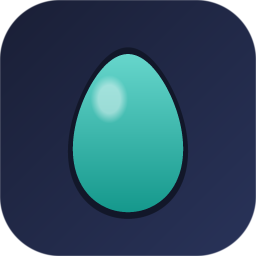
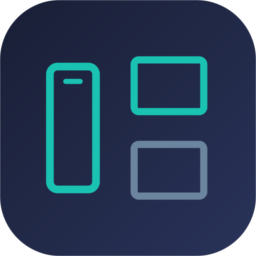
Remplacer l'oeuf par un téléphone et deux fenêtres
L'oeuf est l'emblème du jeu, donc le motif le plus exposé : même
entièrement calculé, il donnait l'impression d'une icône officielle.
Le nouveau dessin ne doit rien à personne. Il montre ce que fait
l'application : un téléphone à gauche, deux cadres de fenêtre qui en
sortent à droite, celui du dessus en couleur d'accent.

L'écouteur du téléphone est indispensable, sans quoi il se lit comme une
troisième fenêtre. Vérifié à seize pixels : les trois formes restent
distinctes.

L'icône des fenêtres de jeu est réécrite à chaque démarrage. La garder
au premier lancement figeait l'ancienne image après un changement de
marque.

Changed region(s): [[0.1562, 0.1875, 0.8125, 0.875]]

diff --git a/build/make-icon.py b/build/make-icon.py
@@ -1,16 +1,16 @@
 #!/usr/bin/env python3
 """Genere assets/app.ico et assets/app.png.
 
-Marque : un oeuf unique, grand et centre, sur fond bleu nuit.
+Marque : un telephone a gauche, et deux cadres de fenetre qui en sortent vers
+la droite. C'est litteralement ce que fait l'application : un telephone qui
+alimente plusieurs fenetres sur le PC.
 
-La composition est produite par ce script, a partir de formes geometriques et
-d'une couleur choisie ici. Elle ne reprend aucune illustration existante :
-ni motif, ni relief, ni ornement, ni teinte copiee. Un oeuf est une forme
-generique ; c'est le dessin qui appartient a son auteur, et celui-ci est
-entierement calcule ci-dessous.
+Aucune reference au jeu. Un oeuf serait l'embleme de DOFUS, donc le motif le
+plus expose : le dessin ne doit rien evoquer d'officiel. Ici il n'y a que des
+rectangles arrondis, calcules ci-dessous, et une teinte choisie ici.
 
-Un seul oeuf plutot que six : l'icone reste lisible a seize pixels, dans la
-barre des taches comme dans le menu Demarrer.
+Le dessin reste lisible a seize pixels : trois formes seulement, bien
+separees, sans detail interieur.
 
 Aucune dependance externe : PNG ecrit a la main via zlib.
 Executer depuis la racine du depot :  python3 build/make-icon.py
@@ -22,14 +22,26 @@ import zlib
 
 SS = 4  # supersampling
 
-# L'oeuf occupe l'essentiel de l'image : c'est ce qui le rend reconnaissable
-# une fois reduit a seize pixels.
-EGG_CENTER = (0.5, 0.52)
-EGG_HALF_WIDTH = 0.215
-EGG_HALF_HEIGHT = 0.315
-OUTLINE = 0.014
+# Le telephone occupe le tiers gauche, les fenetres les deux tiers droits.
+# Les proportions sont genereuses : a seize pixels, un trait fin disparait.
+PHONE = (0.285, 0.500, 0.105, 0.255)   # centre x, centre y, demi-largeur, demi-hauteur
+PHONE_RADIUS = 0.045
+PHONE_BORDER = 0.030
 
-EGG_HUE = (0.10, 0.76, 0.70)  # turquoise
+# L'ecouteur : sans lui, le telephone se lit comme une troisieme fenetre.
+# Il disparait proprement a seize pixels, ou il ne resterait qu'une tache.
+SPEAKER = (0.285, 0.318, 0.038, 0.010)
+SPEAKER_RADIUS = 0.010
+
+WINDOWS = (
+    (0.660, 0.335, 0.150, 0.115),      # fenetre du haut
+    (0.660, 0.665, 0.150, 0.115),      # fenetre du bas
+)
+WINDOW_RADIUS = 0.032
+WINDOW_BORDER = 0.028
+
+ACCENT = (0.10, 0.76, 0.70)            # turquoise
+MUTED = (0.42, 0.52, 0.62)             # gris bleute, pour la fenetre d'arriere-plan
 
 
 def rounded_rect_sdf(x, y, cx, cy, hw, hh, r):
@@ -90,42 +102,51 @@ def egg_color(hue, local_y):
     return tuple(top[i] + (bottom[i] - top[i]) * t for i in range(3))
 
 
+def frame(px, u, v, cx, cy, hw, hh, radius, border, color):
+    """Cadre arrondi : un contour plein, un interieur vide."""
+    outer = rounded_rect_sdf(u, v, cx, cy, hw, hh, radius)
+    inner = rounded_rect_sdf(u, v, cx, cy, hw - border, hh - border, max(0.004, radius - border))
+
+    # L'anneau est la ou l'on est dans le contour exterieur mais hors du vide.
+    ring = min(coverage(outer), 1.0 - coverage(inner))
+
+    if ring <= 0.0:
+        return px
+
+    return over(px, (color[0], color[1], color[2], ring))
+
+
 def shade(u, v):
     """Couleur RGBA du pixel en coordonnees normalisees [0,1]."""
     px = (0.0, 0.0, 0.0, 0.0)
 
-    # Fond : carre arrondi, degrade indigo vers bleu en diagonale.
+    # Fond : carre arrondi, degrade sombre en diagonale.
     d = rounded_rect_sdf(u, v, 0.5, 0.5, 0.5, 0.5, 0.235)
     if d >= 0.5:
         return px
 
-    # Fond sombre et neutre : ce sont les oeufs qui portent la couleur.
     t = max(0.0, min(1.0, (u + v) / 2))
     r = 0.10 + (0.16 - 0.10) * t
     g = 0.12 + (0.20 - 0.12) * t
     b = 0.21 + (0.35 - 0.21) * t
     px = over(px, (r, g, b, coverage(d)))
 
-    cx, cy = EGG_CENTER
-    de = egg_sdf(u, v, cx, cy, 0.0, EGG_HALF_WIDTH, EGG_HALF_HEIGHT)
+    # La fenetre du bas passe derriere, en gris : elle donne la profondeur
+    # sans encombrer le dessin.
+    cx, cy, hw, hh = WINDOWS[1]
+    px = frame(px, u, v, cx, cy, hw, hh, WINDOW_RADIUS, WINDOW_BORDER, MUTED)
 
-    if de > OUTLINE:
-        return px
+    # La fenetre du haut est celle qui compte, donc en couleur d'accent.
+    cx, cy, hw, hh = WINDOWS[0]
+    px = frame(px, u, v, cx, cy, hw, hh, WINDOW_RADIUS, WINDOW_BORDER, ACCENT)
 
-    # Contour sombre : il detache l'oeuf du fond, y compris en tres petit.
-    if de > -OUTLINE * 0.30:
-        return over(px, (0.07, 0.09, 0.16, coverage(de - OUTLINE, 340.0)))
+    # Le telephone, devant tout le reste.
+    cx, cy, hw, hh = PHONE
+    px = frame(px, u, v, cx, cy, hw, hh, PHONE_RADIUS, PHONE_BORDER, ACCENT)
 
-    local_x = (u - cx) / EGG_HALF_WIDTH
-    local_y = (v - cy) / EGG_HALF_HEIGHT
-
-    cr, cg, cb = egg_color(EGG_HUE, (local_y + 1) / 2)
-    px = over(px, (cr, cg, cb, coverage(de, 340.0)))
-
-    # Reflet : une tache claire en haut a gauche donne le poli d'une coquille.
-    gloss = math.hypot((local_x + 0.34) / 0.34, (local_y + 0.42) / 0.30) - 1.0
-    if gloss < 0:
-        px = over(px, (1.0, 1.0, 1.0, 0.45 * min(1.0, -gloss * 2.4)))
+    cx, cy, hw, hh = SPEAKER
+    d = rounded_rect_sdf(u, v, cx, cy, hw, hh, SPEAKER_RADIUS)
+    px = over(px, (ACCENT[0], ACCENT[1], ACCENT[2], coverage(d)))
 
     return px
 

diff --git a/src/DtHub.App/Services/WindowIcons.cs b/src/DtHub.App/Services/WindowIcons.cs
@@ -31,11 +31,8 @@ public static class WindowIcons
             var directory = Path.Combine(paths.CacheDirectory, "icons");
             var target = Path.Combine(directory, IconFile);
 
-            if (File.Exists(target))
-            {
-                return directory;
-            }
-
+            // Réécrit à chaque démarrage : garder la première copie figerait
+            // l'ancienne image après un changement de marque.
             var source = Application.GetResourceStream(new Uri("assets/app.png", UriKind.Relative));
 
             if (source is null)
